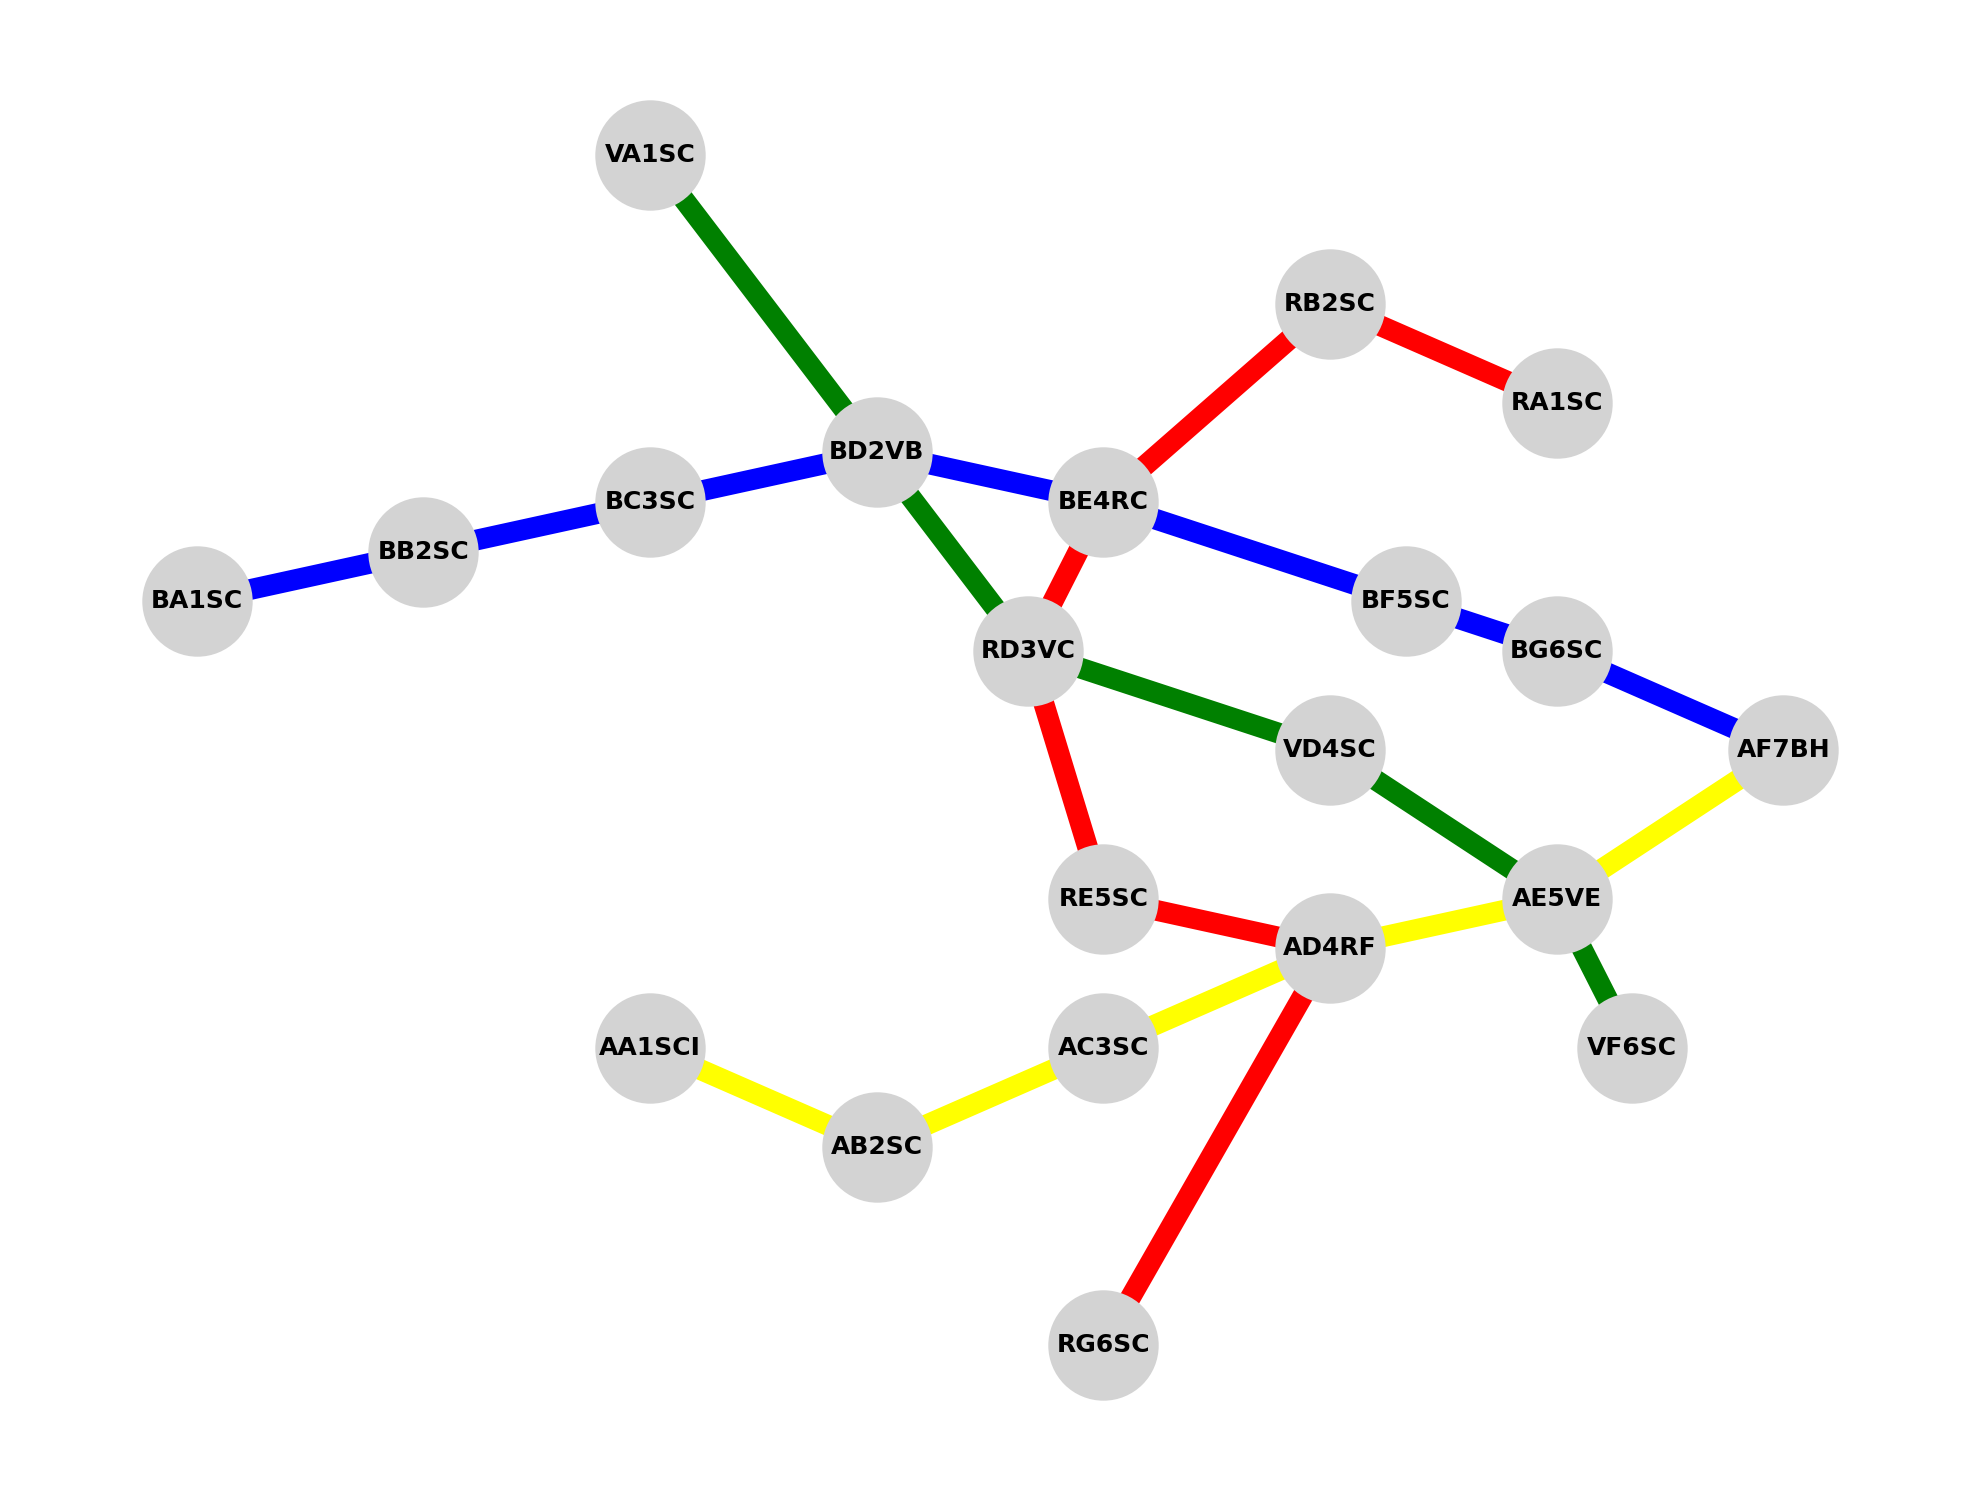
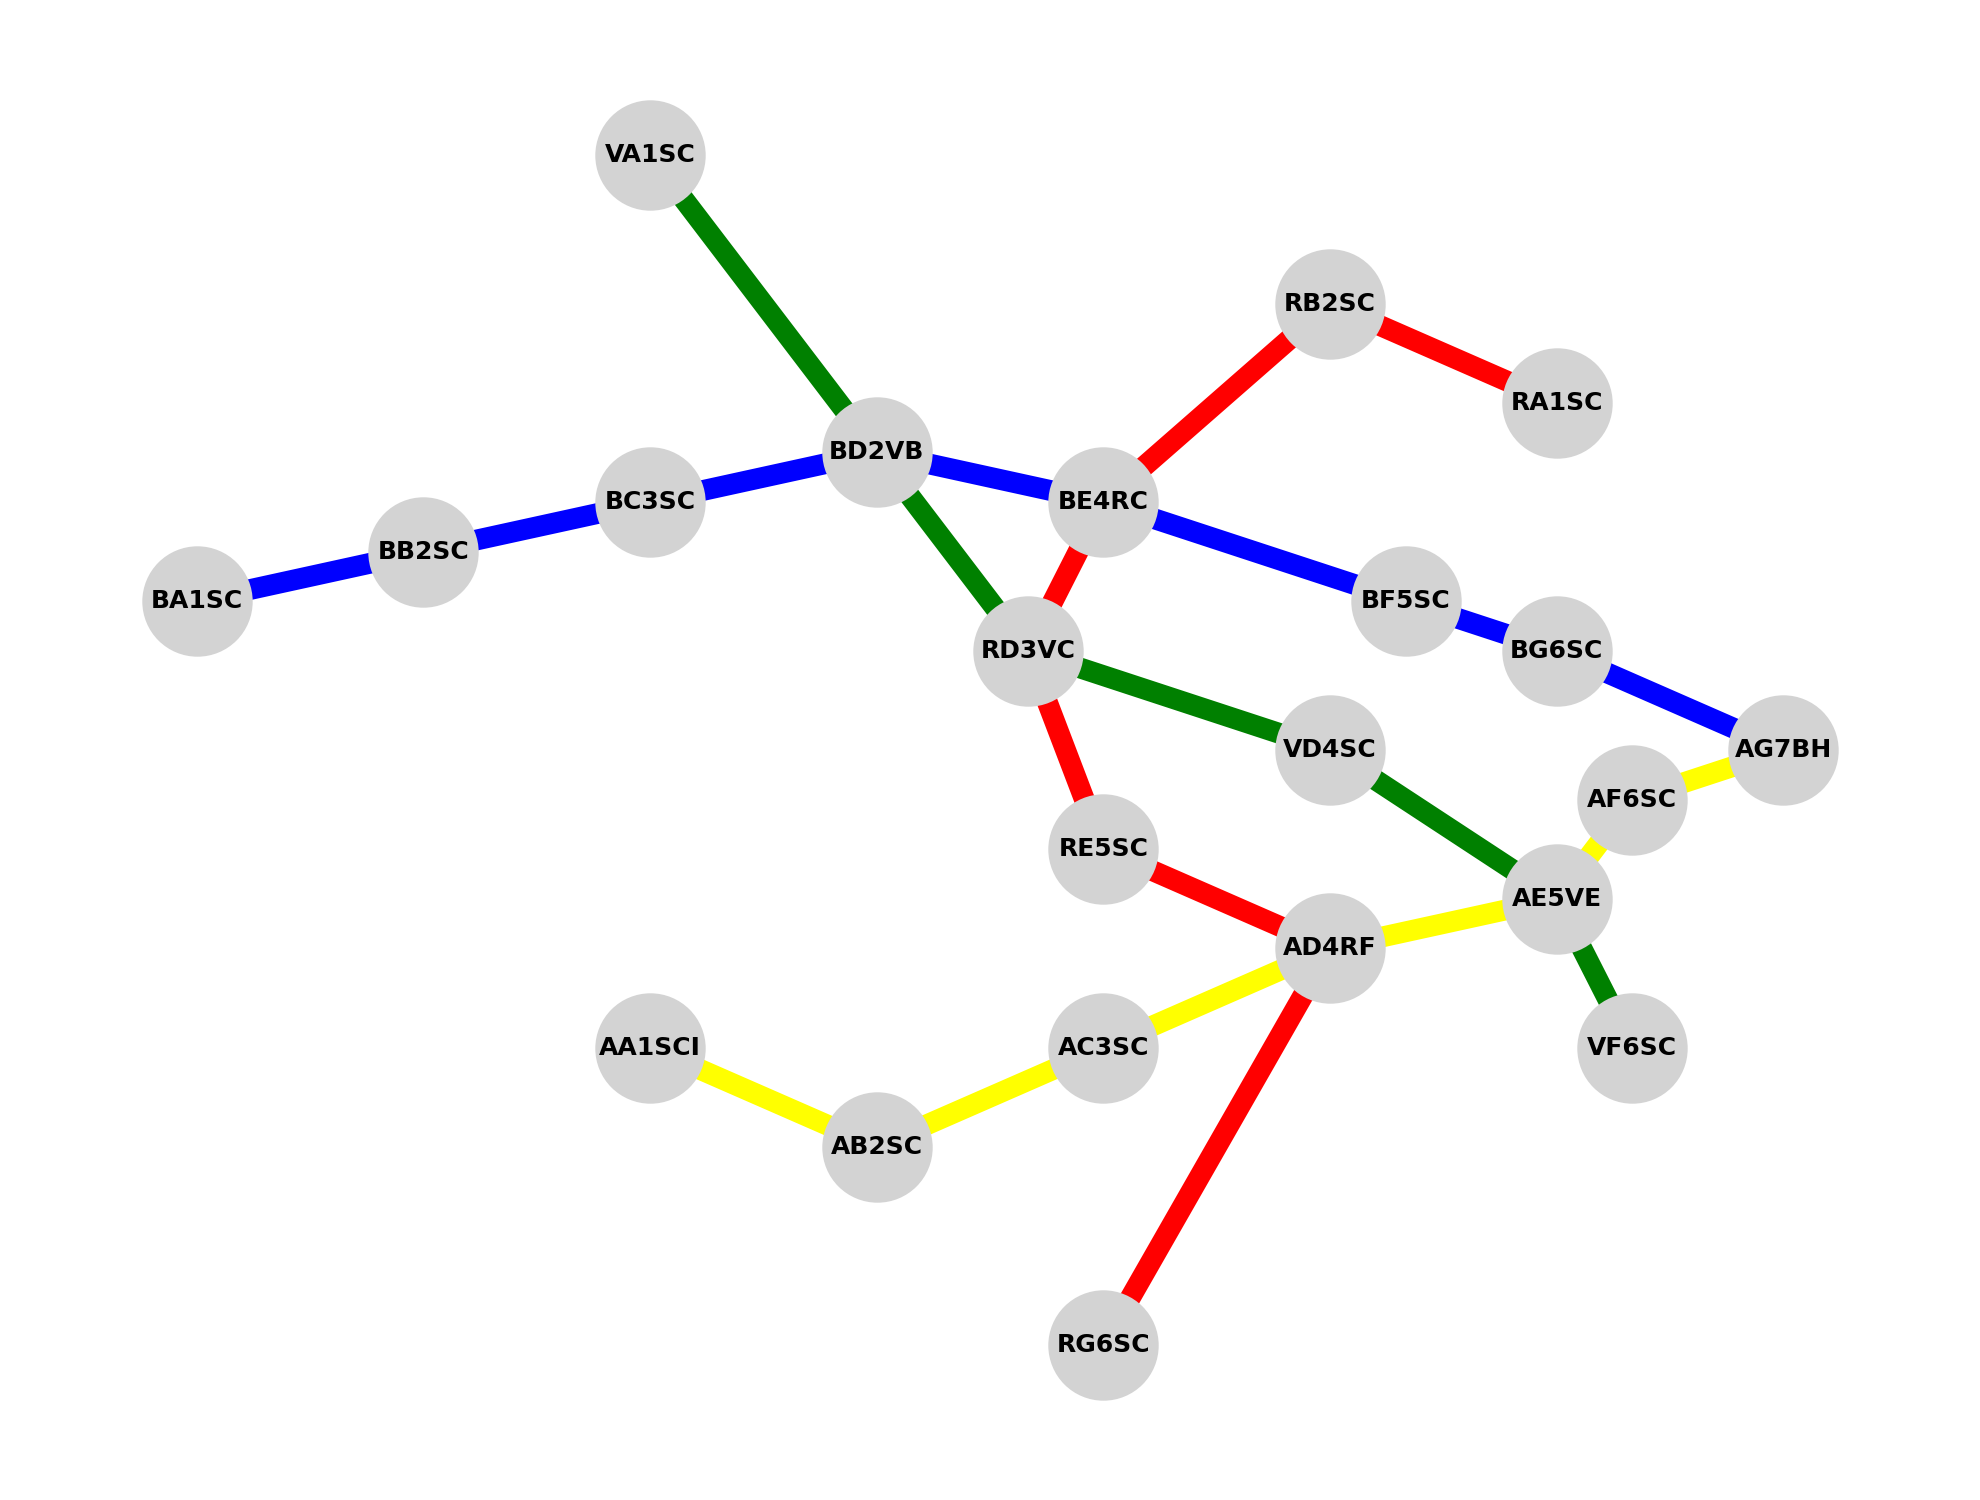
Experimento base

Changed region(s): [[0.5237, 0.46, 0.647, 0.644], [0.7702, 0.4907, 0.9242, 0.5827]]

diff --git a/week_one/experimento_generico/construccion_de_json.py b/week_one/experimento_generico/construccion_de_json.py
@@ -6,14 +6,14 @@ from fontTools.ttLib.woff2 import bboxFormat
 sistema_generico= {
     "lineas":{
         "amarilla": {
-            "estaciones": ["AA1SCI","AB2SC","AC3SC","AD4RF","AE5VE","AF7BH"],
-            "sentido_ida":["AA1SCI","AB2SC","AC3SC","AD4RF","AE5VE","AF7BH"],
-            "sentido_vuelta":["AF7BH","AE5VE","AD4RF","AC3SC","AB2SC","AA1SCI"]
+            "estaciones": ["AA1SCI","AB2SC","AC3SC","AD4RF","AE5VE","AF6SC","AG7BH"],
+            "sentido_ida":["AA1SCI","AB2SC","AC3SC","AD4RF","AE5VE","AF6SC","AG7BH"],
+            "sentido_vuelta":["AG7BH","AF6SC","AE5VE","AD4RF","AC3SC","AB2SC","AA1SCI"]
         },
         "azul": {
-            "estaciones": ["BA1SC","BB8SC","BC3SC","BD2VB","BE4RC","BF5SC","BG6SC","AF7BH"],
-            "sentido_ida":["BA1SC","BB2SC","BC3SC","BD2VB","BE4RC","BF5SC","BG6SC","AF7BH"],
-            "sentido_vuelta":["AF7BH","BG6SC","BF5SC","BE4RC","BD2VB","BC3SC","BB2SC","BA1SC"]
+            "estaciones": ["BA1SC","BB8SC","BC3SC","BD2VB","BE4RC","BF5SC","BG6SC","AG7BH"],
+            "sentido_ida":["BA1SC","BB2SC","BC3SC","BD2VB","BE4RC","BF5SC","BG6SC","AG7BH"],
+            "sentido_vuelta":["AG7BH","BG6SC","BF5SC","BE4RC","BD2VB","BC3SC","BB2SC","BA1SC"]
         },
         "roja": {
             "estaciones":["RA1SC","RB2SC","BE4RC","RD3VC","RE5SC","AD4RF","RG6SC"],
@@ -31,8 +31,8 @@ sistema_generico= {
 }
 
 #Guardamos el sistema en un archivo JSON
-#with open("sistema_generico.json", "w", encoding="utf-8") as f:
-    #json.dump(sistema_generico, f, ensure_ascii=False, indent=4)
+with open("sistema_generico.json", "w", encoding="utf-8") as f:
+    json.dump(sistema_generico, f, ensure_ascii=False, indent=4)
 
 # Mapeo de colores de español a matplotlib
 color_map = {
@@ -53,9 +53,9 @@ for color, info in sistema_generico["lineas"].items():
 
 # Posiciones manuales para evitar superposición
 pos = {
-    "AA1SCI": (0,0), "AB2SC": (3,-2), "AC3SC": (6,0), "AD4RF": (9,2), "AE5VE": (12,3), "AF7BH": (15,6),
+    "AA1SCI": (0,0), "AB2SC": (3,-2), "AC3SC": (6,0), "AD4RF": (9,2), "AE5VE": (12,3), "AF6SC":(13,5),"AG7BH": (15,6),
     "BA1SC": (-6,9), "BB2SC": (-3,10), "BC3SC": (0,11), "BD2VB": (3,12), "BE4RC": (6,11), "BF5SC": (10,9), "BG6SC": (12,8),
-    "RA1SC": (12,13), "RB2SC": (9,15), "RD3VC": (5,8), "RE5SC": (6,3), "RG6SC": (6,-6),
+    "RA1SC": (12,13), "RB2SC": (9,15), "RD3VC": (5,8), "RE5SC": (6,4), "RG6SC": (6,-6),
     "VA1SC": (0,18), "VD4SC": (9,6), "VF6SC": (13,0)
 }
 

diff --git a/week_one/experimento_generico/Explicacion.md b/week_one/experimento_generico/Explicacion.md
@@ -1,0 +1,95 @@
+# Experimento Generico
+
+Descrito en la reunión del martes 30 de septiembre de 2025, generaremos un espacio ficticio,
+pero con la suficiente rigurosidad para que sea generalizable, escalable y aplicable, tanto a
+la arquitectura a desarrollar como a los diferentes modelos de lenguaje que se puedan encontrar
+en el mercado, y cómo estos reaccionan ante un contexto en el que no han sido entrenados.
+
+El metro de Madrid, al ser una ciudad turística con tanta información, y cuyo tráfico se presume
+lo suficientemente grande como para que las empresas inviertan grandes cantidades de dinero en
+entrenar sus modelos con esta información, no es un buen ejemplo, para la verificacion de la eficacia
+del uso de información y la limitacion de capacidades.
+
+## Estructura del experimento
+
+1. **Creación del espacio ficticio**:  
+   Se diseñó un mapa de metro ficticio con estaciones, líneas y conexiones. Este mapa será lo suficientemente complejo para simular un entorno realista, pero no tan conocido como para que los modelos de lenguaje hayan sido entrenados.  
+
+2. **Generación de datos**:  
+   Se generaron datos ficticios para las estaciones y líneas del metro, manteniendo el concepto de color en las líneas, como en los metros de Madrid, Londres o Nueva York.  
+   Aquí se tienen las líneas de color amarillo, azul, rojo y verde. Adicionalmente, se realizó una codificación de las estaciones con el fin de incluso romper la tokenización del modelo:  
+
+   - La codificación de las estaciones es **AB#CD**.  
+   - Donde **A** obedece al color de la línea (A = Amarillo, B = Azul, R = Rojo, V = Verde).  
+   - Donde **B** es la letra en orden alfabético para la estación (en el caso de la línea A va de AA a AG).  
+   - **#** obedece al número de conteo de la línea predominante; aunque puede ocurrir que por el cruce la numeración se repita para la estación, lo cual no es un problema ya que se busca confundir al modelo y “romper” su tokenización.  
+   - **CD** corresponde al cruce de línea y estación. Puede ser la secuencia **SC** (Sin Conexión) o la línea y estación en donde se cruza. Ejemplos:  
+     - **AD4RF** = Es la cuarta estación de la línea A (amarilla); por eso la letra es D. Se cruza con la línea R en la estación F. La numeración 4 corresponde al conteo predominante de la línea A.  
+     - **AF6SC** = Es la sexta estación de la línea amarilla; por eso la letra es F. No tiene conexión con ninguna otra línea.  
+
+3. **Rutas**:  
+   Se consideró que para ir de extremo a extremo en una misma línea existieran al menos dos rutas posibles. Aún no se ha definido un costo asociado, ya sea de viaje, distancia o tiempo entre tramos.  
+
+4. **Codificación y almacenamiento de la información**:  
+   La información se almacenó en un archivo **JSON**, con el fin de que sea fácilmente interpretable y editable por ahora. Se espera su integración futura con una base de datos en un lenguaje de consultas como **SQL**. No obstante, para el experimento actual esto no es relevante.  
+
+## Plano ficticio del metro
+
+![Plano Metro Ficticio](./sistema_generico.png)
+
+Se generó un grafo orientado y codificado con el fin de graficarlo y hacer visible el experimento, esto con el fin de realizar analisis humanos sobre el mismo, y la forma de almacenamiento para que el modelo intérprete es JSON como se presenta a continuacion: 
+
+## Ejemplo de archivo JSON
+
+```json
+{
+    "lineas": {
+      "amarilla": {
+        "estaciones": [
+          "AA1SCI",
+          "AB2SC",
+          "AC3SC",
+          "AD4RF",
+          "AE5VE",
+          "AF6SC",
+          "AG7BH"
+        ],
+        "sentido_ida": [
+          "AA1SCI",
+          "AB2SC",
+          "AC3SC",
+          "AD4RF",
+          "AE5VE",
+          "AF6SC",
+          "AG7BH"
+        ],
+        "sentido_vuelta": [
+          "AG7BH",
+          "AF6SC",
+          "AE5VE",
+          "AD4RF",
+          "AC3SC",
+          "AB2SC",
+          "AA1SCI"
+        ]
+      }
+    }
+}
+```
+## Rutas a considerar
+
+Probemos primero unas rustas siimples, ya que el objetivo es ver como el modelo responde a la información dada, y si es capaz de interpretar las rutas, los cruces y las conexiones.
+
+- Límites de cada línea:
+  - Línea Amarilla: AA1SC - AG7BH
+  - Línea Azul: BA1SC - AG7BH
+  - Línea Roja: RA1SC - RG7SC
+  - Línea Verde: VA1SC - VF6SC
+
+- Rutas con cruce:
+    - De RD3VC a AG7BH
+    - De VD4SC a AA1SC
+    - De BE4RC a AF6SC
+    - De RE5CS a VD4SC
+    - De BA1SC a VF6SC
+    - De RA1SC a AB2SC
